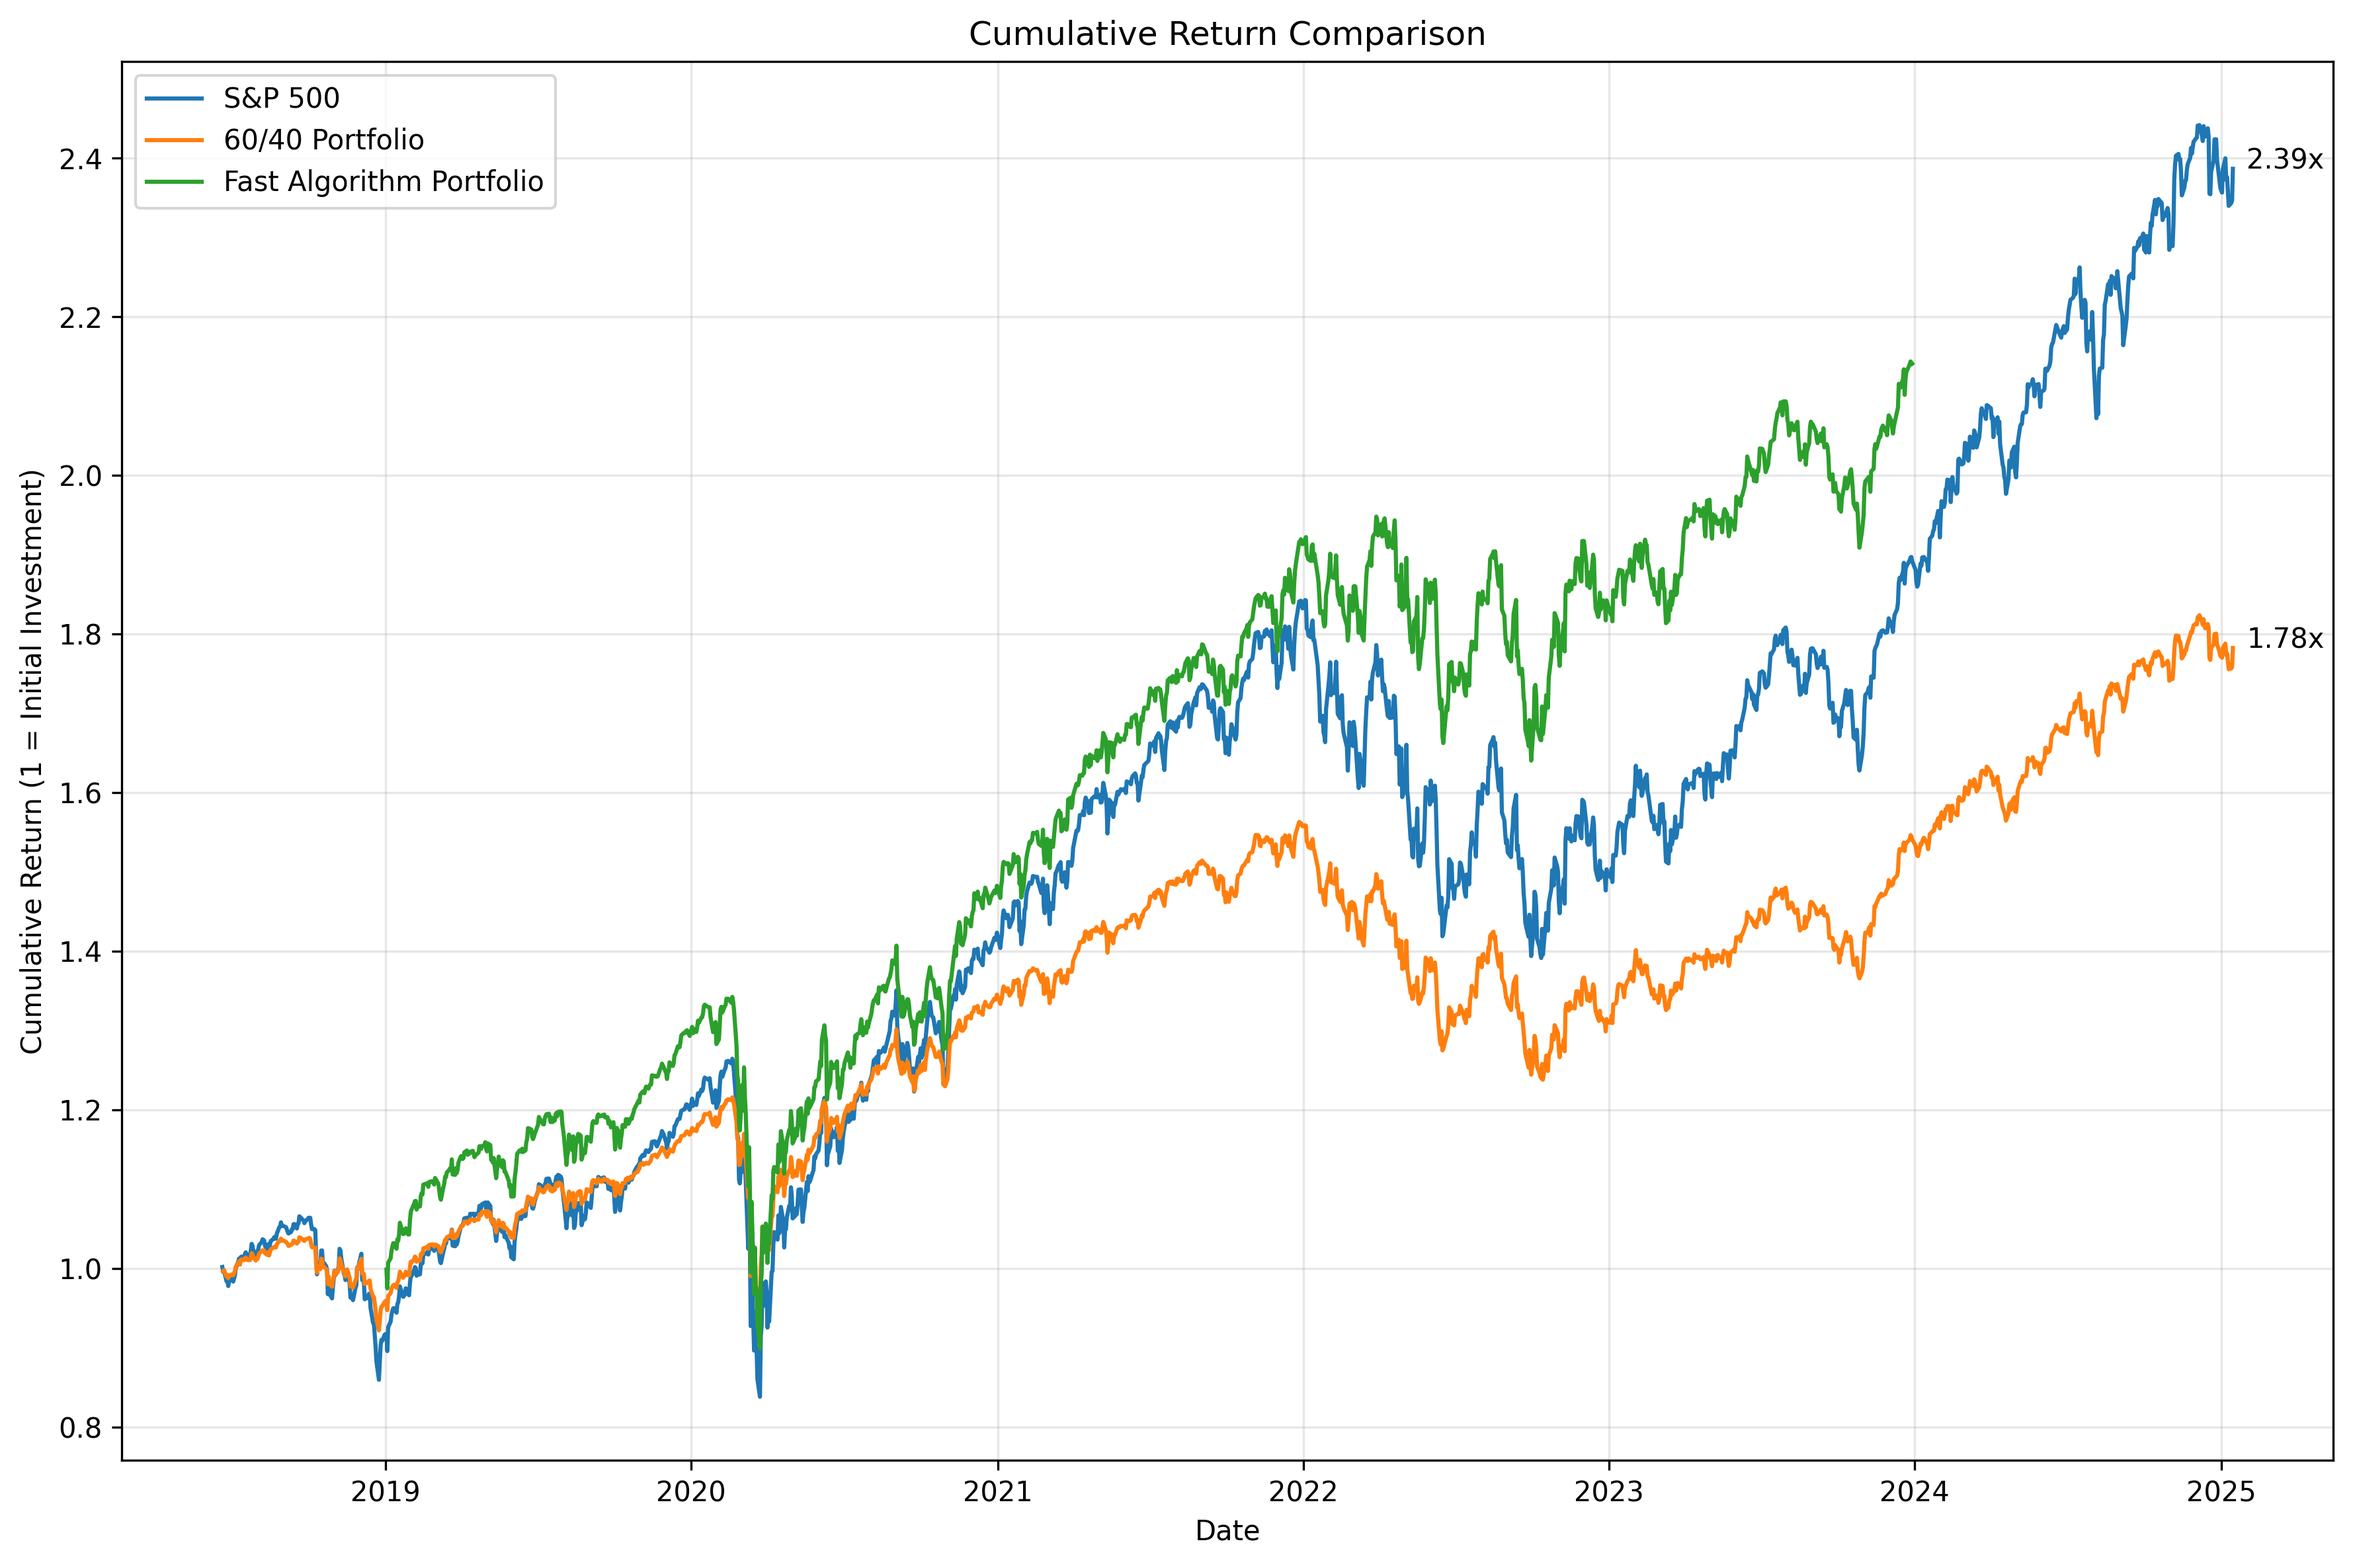
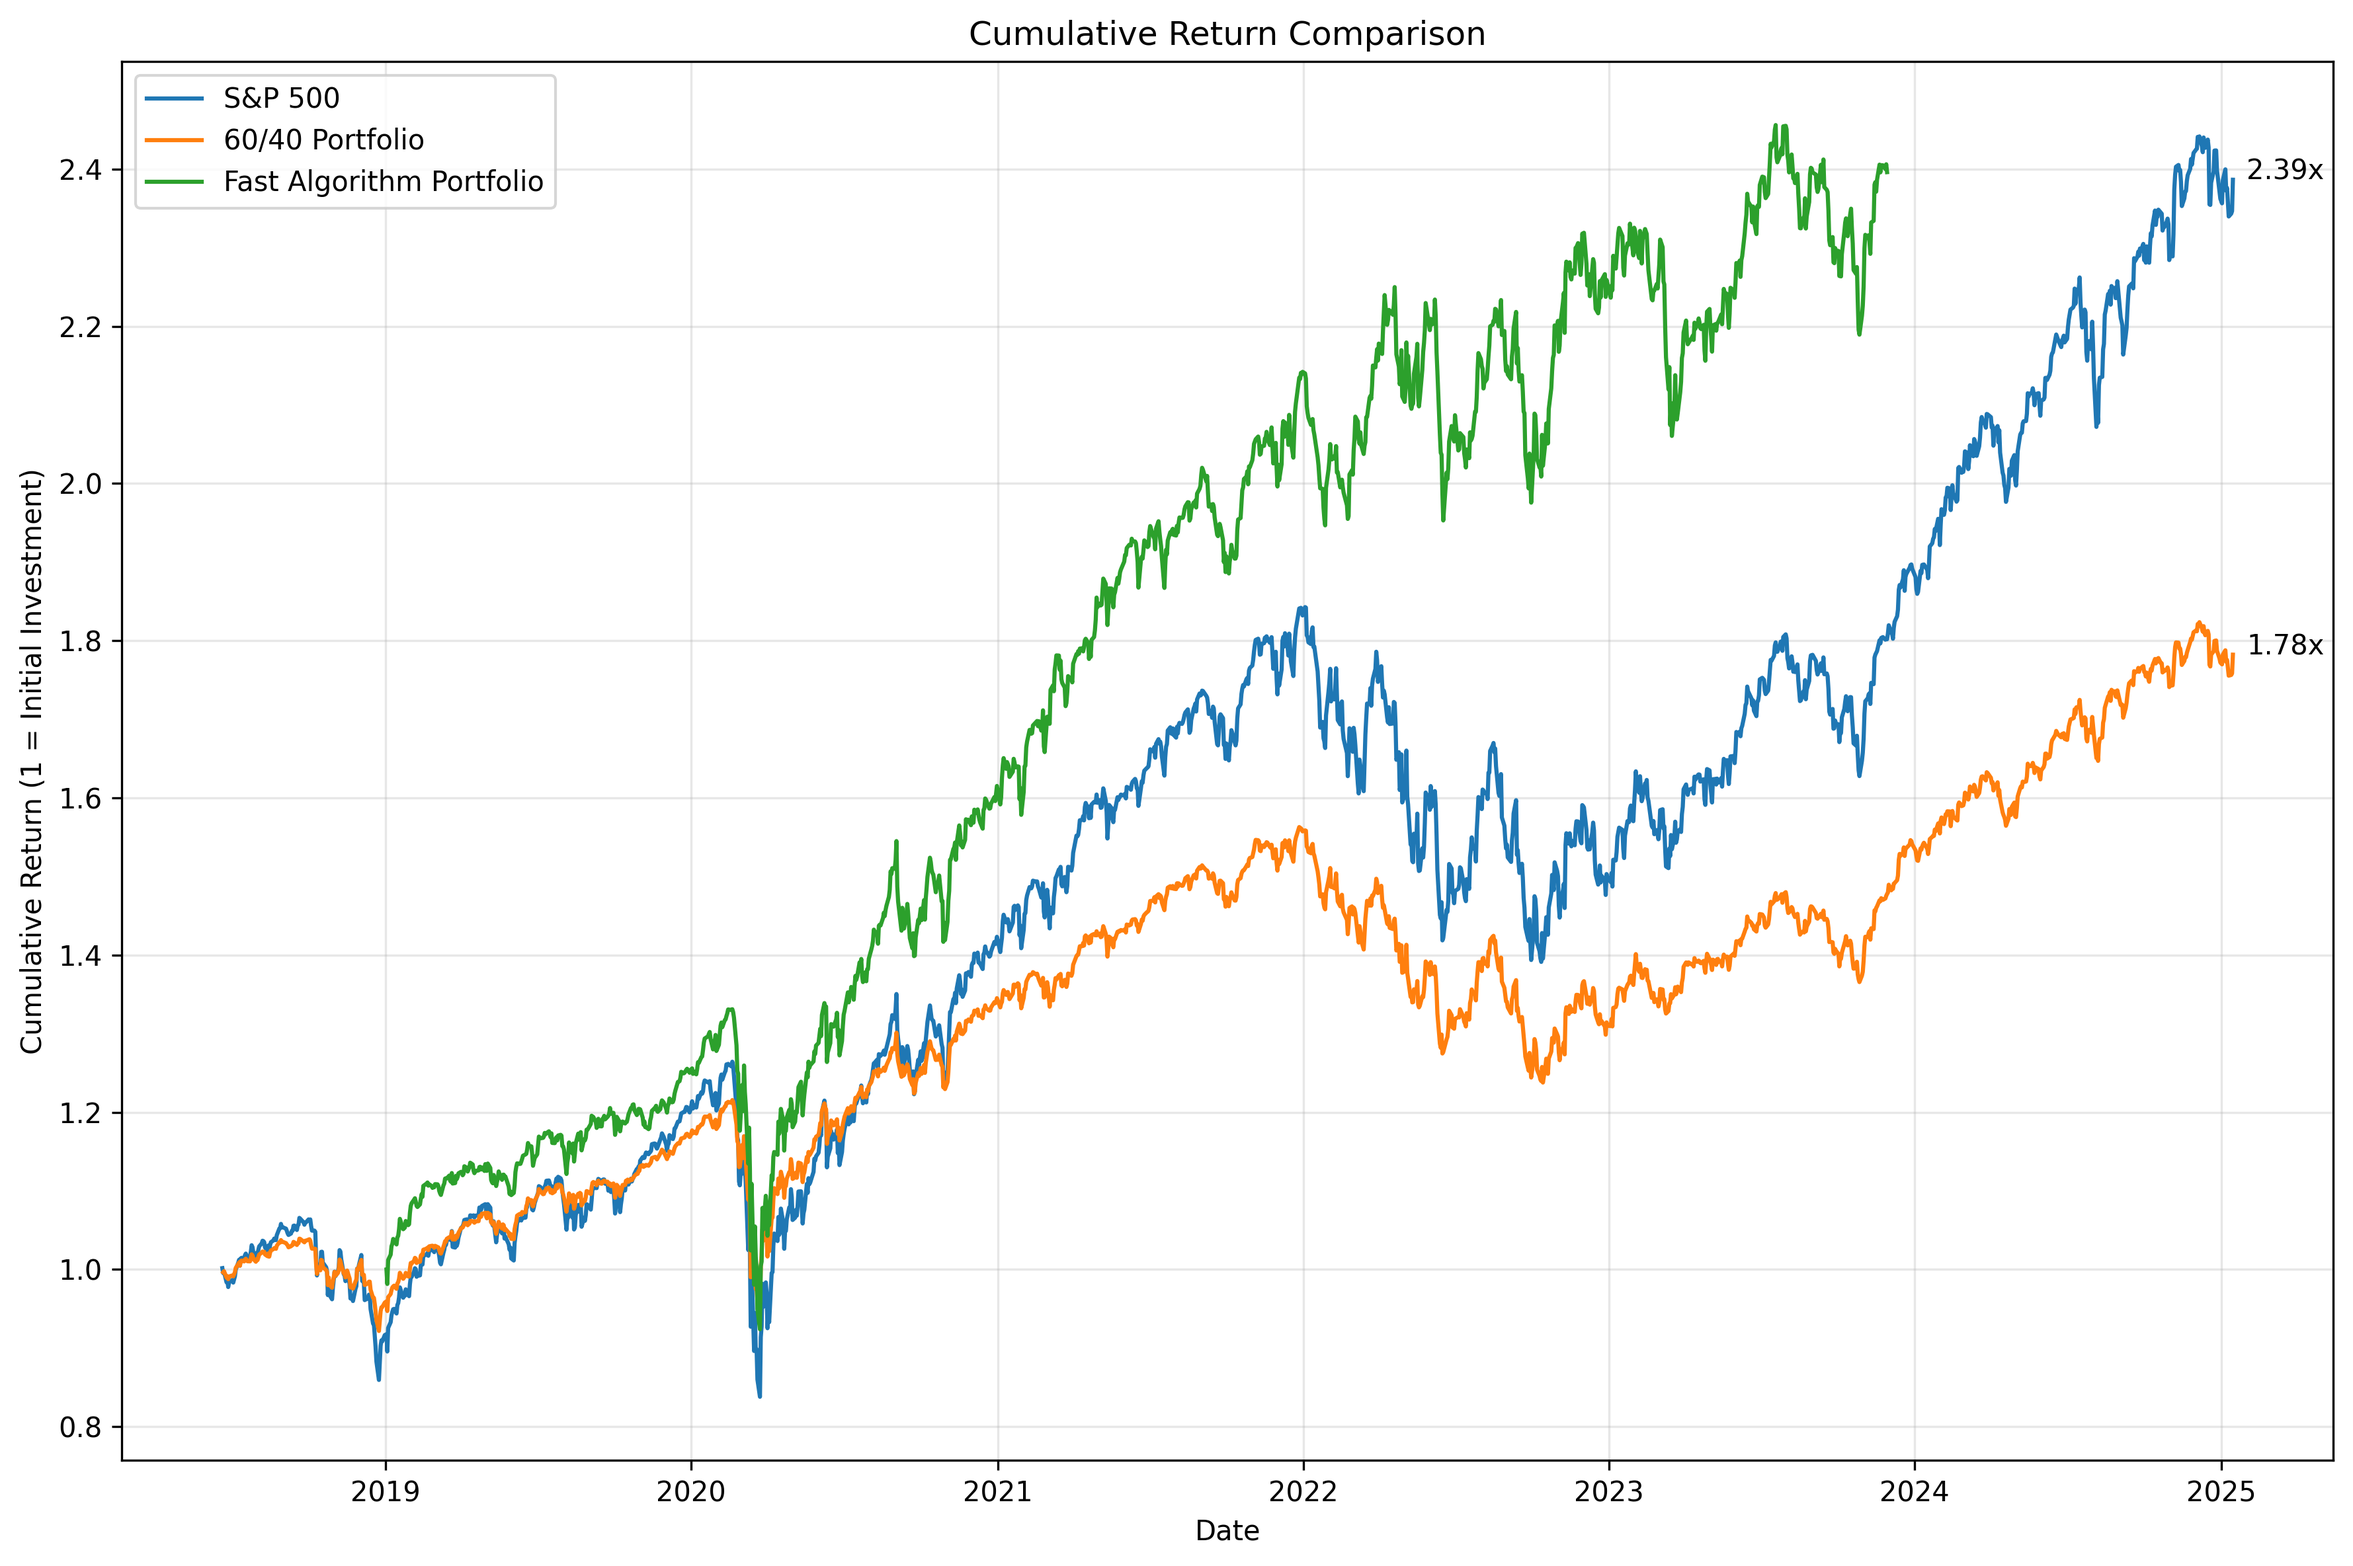
adding drawdown reformatting and rebalancing the portfolio

diff --git a/src/analysis/benchmark_analysis.py b/src/analysis/benchmark_analysis.py
@@ -518,6 +518,11 @@ def main(
 
     # Print drawdown statistics
     print("\nDrawdown Statistics:")
+    # Configure pandas to show all rows and columns
+    pd.set_option("display.max_rows", None)
+    pd.set_option("display.max_columns", None)
+    pd.set_option("display.width", 1000)  # Wider display to prevent line wrapping
+
     print(drawdown_stats)
 
     # Create summary report

diff --git a/results/analysis/benchmark_analysis.md b/results/analysis/benchmark_analysis.md
@@ -8,15 +8,15 @@
 |:-------------------------|---------------:|--------------------:|------------------------:|---------------:|---------------:|----------------------:|-----------:|-----------:|
 | S&P 500                  |       1.38652  |            0.164062 |                0.196151 |       0.734443 |      -0.337173 |            -0.0184559 |  -0.530175 |    11.9544 |
 | 60/40 Portfolio          |       0.782242 |            0.100394 |                0.122469 |       0.656448 |      -0.211871 |            -0.0112389 |  -0.665305 |    14.6811 |
-| Fast Algorithm Portfolio |       1.14077  |            0.187318 |                0.195723 |       0.854871 |      -0.330251 |            -0.0164847 |  -0.525451 |    15.1121 |
+| Fast Algorithm Portfolio |       1.39618  |            0.21823  |                0.196559 |       1.0085   |      -0.305903 |            -0.0169117 |  -0.470233 |    15.2779 |
 
 ## Return Correlations
 
 |                          |   S&P 500 |   60/40 Portfolio |   Fast Algorithm Portfolio |
 |:-------------------------|----------:|------------------:|---------------------------:|
-| S&P 500                  |  1        |          0.977159 |                   0.977352 |
-| 60/40 Portfolio          |  0.977159 |          1        |                   0.94943  |
-| Fast Algorithm Portfolio |  0.977352 |          0.94943  |                   1        |
+| S&P 500                  |  1        |          0.977159 |                   0.914313 |
+| 60/40 Portfolio          |  0.977159 |          1        |                   0.884462 |
+| Fast Algorithm Portfolio |  0.914313 |          0.884462 |                   1        |
 
 ## Benchmark Descriptions
 
